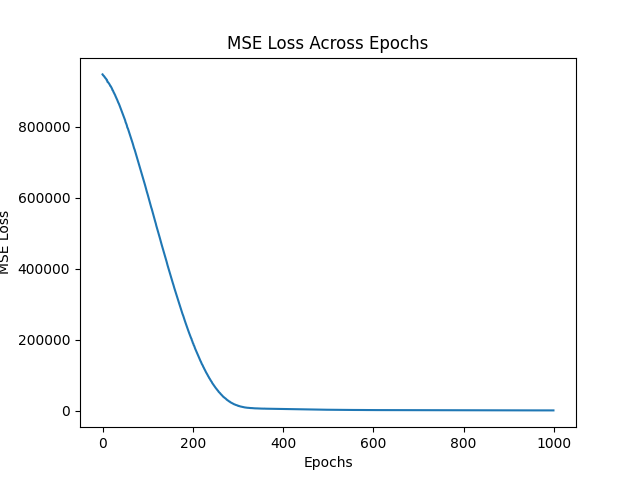
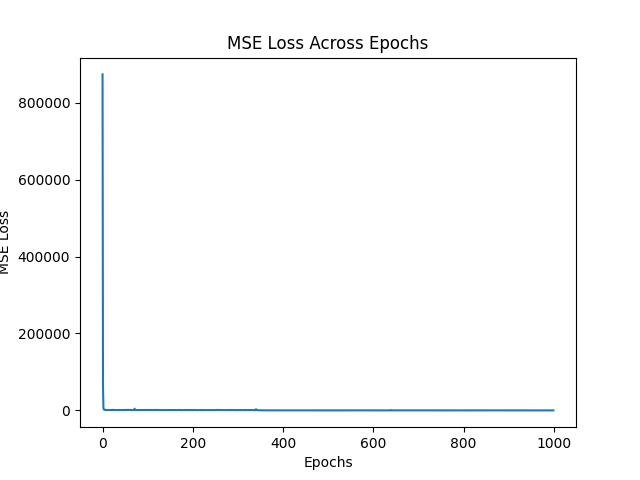
Finish :

diff --git a/train_mnist.py b/train_mnist.py
@@ -1,0 +1,152 @@
+import torch
+import torch.nn as nn
+import torch.nn.functional as F
+from torchvision import datasets, transforms
+from torch.utils.data import DataLoader, random_split
+import matplotlib.pyplot as plt
+
+from tqdm import tqdm
+
+from vit import ViT
+from cnn import CNN
+
+# Define a transformation to normalize the data
+transform = transforms.Compose([
+    transforms.ToTensor(),
+    transforms.Normalize((0.5,), (0.5,))  # MNIST images are grayscale
+])
+
+if __name__ == "__main__": 
+
+    # settings
+    batch_size = 128
+    num_epochs = 15
+
+    # Load the data
+    train_val_dataset = datasets.MNIST(root='./data', train=True, download=True, transform=transform)
+    test_dataset = datasets.MNIST(root='./data', train=False, download=True, transform=transform)
+    num_train = len(train_val_dataset)
+    num_val = int(num_train * 0.1)  # 10% for validation
+    num_train -= num_val
+
+    train_dataset, val_dataset = random_split(train_val_dataset, [num_train, num_val])
+
+    # Create data loaders for each set
+    train_loader = DataLoader(train_dataset, batch_size=batch_size, shuffle=True)
+    val_loader = DataLoader(val_dataset, batch_size=batch_size, shuffle=False)
+    test_loader = DataLoader(test_dataset, batch_size=batch_size, shuffle=False)
+
+    models = {
+        'vit': ViT(
+            img_size=28,
+            patch_size=7,
+            in_channels=1,
+            num_classes=10,
+            embed_size=64,
+            depth=6,
+            heads=8,
+            forward_expansion=4,
+            dropout=0.1
+        ),
+        'cnn': CNN(),
+    }
+
+    device = torch.device('cuda' if torch.cuda.is_available() else 'cpu')
+
+    criterion = nn.CrossEntropyLoss()
+
+    losses = {}
+    accuracies = {}
+
+    for model_type, model in models.items():
+        print(f'Training {model_type} model')
+        model.to(device)
+        optimizer = torch.optim.SGD(model.parameters(), momentum=0.9, lr=0.01)
+        model.train()
+
+        losses[model_type] = []
+        accuracies[model_type] = []
+
+        for epoch in range(num_epochs):
+            print(f'Epoch {epoch+1}/{num_epochs}')
+            print('-' * 10)
+
+            for phase in ['train', 'val']:
+                if phase == 'train':
+                    model.train()  # Set model to training mode
+                    dataloader = train_loader
+                else:
+                    model.eval()   # Set model to evaluate mode
+                    dataloader = val_loader
+
+                running_loss = 0.0
+                running_corrects = 0
+
+                # Iterate over data.
+                for inputs, labels in tqdm(dataloader):
+                    inputs = inputs.to(device)
+                    labels = labels.to(device)
+
+                    # zero the parameter gradients
+                    optimizer.zero_grad()
+
+                    # forward
+                    # track history if only in train
+                    with torch.set_grad_enabled(phase == 'train'):
+                        outputs = model(inputs)
+                        _, preds = torch.max(outputs, 1)
+                        loss = criterion(outputs, labels)
+
+                        # backward + optimize only if in training phase
+                        if phase == 'train':
+                            loss.backward()
+                            optimizer.step()
+
+                    # statistics
+                    running_loss += loss.item() * inputs.size(0)
+                    running_corrects += torch.sum(preds == labels.data)
+
+                epoch_loss = running_loss / len(dataloader.dataset)
+                epoch_acc = running_corrects.double() / len(dataloader.dataset)
+
+                print('{} Loss: {:.4f} Acc: {:.4f}'.format(phase, epoch_loss, epoch_acc))
+
+                losses[model_type].append(epoch_loss)
+                accuracies[model_type].append(epoch_acc.cpu())
+
+        print('Finished Training')
+
+        # Test the model
+        model.eval() 
+        with torch.no_grad():
+            correct = 0
+            total = 0
+            for images, labels in tqdm(test_loader):
+                images = images.to(device)
+                labels = labels.to(device)
+                outputs = model(images)
+                _, predicted = torch.max(outputs.data, 1)
+                total += labels.size(0)
+                correct += (predicted == labels).sum().item()
+
+            print('Test Accuracy of the model on the 10000 test images: {} %'.format(100 * correct / total))
+
+    # Plotting the losses
+    plt.figure(figsize=(10, 5))
+    for model_type, loss in losses.items():
+        plt.plot(loss, label=model_type)
+    plt.title('Model Loss')
+    plt.ylabel('Loss')
+    plt.xlabel('Epoch')
+    plt.legend()
+    plt.savefig('loss.png')
+
+    # Plotting the accuracies
+    plt.figure(figsize=(10, 5))
+    for model_type, accuracy in accuracies.items():
+        plt.plot(accuracy, label=model_type)
+    plt.title('Model Accuracy')
+    plt.ylabel('Accuracy')
+    plt.xlabel('Epoch')
+    plt.legend()
+    plt.savefig('accuracy.png')

diff --git a/vit.py b/vit.py
@@ -1,0 +1,111 @@
+import torch
+import torch.nn as nn
+
+class SelfAttention(nn.Module):
+    def __init__(self, embed_size, heads):
+        super(SelfAttention, self).__init__()
+        self.embed_size = embed_size
+        self.heads = heads
+        self.head_dim = embed_size // heads
+
+        assert self.head_dim * heads == embed_size, "Embed size needs to be divisible by heads"
+
+        # Adjust linear transformations to work on the entire embedding size
+        self.values = nn.Linear(embed_size, embed_size, bias=False)
+        self.keys = nn.Linear(embed_size, embed_size, bias=False)
+        self.queries = nn.Linear(embed_size, embed_size, bias=False)
+        self.fc_out = nn.Linear(heads * self.head_dim, embed_size)
+
+    def forward(self, value, key, query):
+        N = query.shape[0]
+        value_len, key_len, query_len = value.shape[1], key.shape[1], query.shape[1]
+
+        # Transform and then split the embedding into self.heads pieces
+        values = self.values(value).view(N, value_len, self.heads, self.head_dim)
+        keys = self.keys(key).view(N, key_len, self.heads, self.head_dim)
+        queries = self.queries(query).view(N, query_len, self.heads, self.head_dim)
+
+        # Attention mechanism
+        energy = torch.einsum("nqhd,nkhd->nhqk", [queries, keys])
+        attention = torch.softmax(energy / (self.embed_size ** (1 / 2)), dim=3)
+        out = torch.einsum("nhql,nlhd->nqhd", [attention, values]).reshape(N, query_len, self.heads * self.head_dim)
+
+        return self.fc_out(out)
+
+
+
+class PatchEmbedding(nn.Module):
+    def __init__(self, img_size, patch_size, in_channels, embed_size):
+        super().__init__()
+        self.img_size = img_size
+        self.patch_size = patch_size
+        self.in_channels = in_channels
+        self.embed_size = embed_size
+
+        self.n_patches = (img_size // patch_size) ** 2
+        self.proj = nn.Conv2d(in_channels, embed_size, kernel_size=patch_size, stride=patch_size)
+
+    def forward(self, x):
+        x = self.proj(x)  # [B, C, H, W] => [B, E, H/P, W/P]
+        x = x.flatten(2)  # [B, E, N_patches]
+        x = x.transpose(1, 2)  # [B, N_patches, E]
+        return x
+    
+class PositionalEncoding(nn.Module):
+    def __init__(self, n_positions, embed_size):
+        super().__init__()
+        self.positional_encoding = nn.Parameter(torch.zeros(1, n_positions, embed_size))
+
+    def forward(self, x):
+        return x + self.positional_encoding
+    
+class TransformerBlock(nn.Module):
+    def __init__(self, embed_size, heads, forward_expansion, dropout):
+        super().__init__()
+        self.attention = SelfAttention(embed_size, heads)
+        self.norm1 = nn.LayerNorm(embed_size)
+        self.norm2 = nn.LayerNorm(embed_size)
+
+        self.ffn = nn.Sequential(
+            nn.Linear(embed_size, forward_expansion * embed_size),
+            nn.ReLU(),
+            nn.Linear(forward_expansion * embed_size, embed_size)
+        )
+        self.dropout = nn.Dropout(dropout)
+
+    def forward(self, value, key, query):
+        attention = self.attention(value, key, query)
+        x = self.dropout(self.norm1(attention + query))
+        forward = self.ffn(x)
+        out = self.dropout(self.norm2(forward + x))
+        return out
+
+class ViT(nn.Module):
+    def __init__(self, img_size, patch_size, in_channels, num_classes, embed_size, depth, heads, forward_expansion, dropout):
+        super().__init__()
+        self.patch_embedding = PatchEmbedding(img_size, patch_size, in_channels, embed_size)
+        self.positional_encoding = PositionalEncoding(self.patch_embedding.n_patches + 1, embed_size)
+        self.layers = nn.ModuleList([
+            TransformerBlock(embed_size, heads, forward_expansion, dropout) for _ in range(depth)
+        ])
+        self.cls_token = nn.Parameter(torch.zeros(1, 1, embed_size))
+        self.mlp_head = nn.Sequential(
+            nn.LayerNorm(embed_size),
+            nn.Linear(embed_size, num_classes)
+        )
+
+    def forward(self, x):
+        x = self.patch_embedding(x)
+        b, n, _ = x.shape
+        cls_tokens = self.cls_token.expand(b, -1, -1).to(x.device)  # [CLS] token
+        x = torch.cat((cls_tokens, x), dim=1)
+        x = self.positional_encoding(x)
+
+        for layer in self.layers:
+            x = layer(x, x, x)
+
+        cls_token_final = x[:, 0]
+        out = self.mlp_head(cls_token_final)
+
+        return out
+

diff --git a/set_learning.py b/set_learning.py
@@ -19,16 +19,19 @@ def generate_data():
 class SetNN(nn.Module):
     def __init__(self):
         super(SetNN, self).__init__()
-        self.embedding = nn.Embedding(num_embeddings=1000, embedding_dim=10) 
-        self.global_max_pool = nn.AdaptiveMaxPool1d(1)  # global max pooling - permutation invariance
-        self.fc = nn.Linear(10, 1)  
+        self.embedding = nn.Embedding(num_embeddings=1000, embedding_dim=20)  
+        self.self_attention1 = nn.MultiheadAttention(embed_dim=20, num_heads=4, batch_first=True)  
+        self.self_attention2 = nn.MultiheadAttention(embed_dim=20, num_heads=4, batch_first=True) 
+        self.fc1 = nn.Linear(20, 10) 
+        self.fc2 = nn.Linear(10, 1) 
 
     def forward(self, x):
-        x = self.embedding(x)  
-        x = x.transpose(1, 2)  
-        x = self.global_max_pool(x) 
-        x = x.view(x.size(0), -1)  
-        x = self.fc(x) 
+        x = self.embedding(x)
+        attn_output, _ = self.self_attention1(x, x, x)
+        attn_output, _ = self.self_attention2(attn_output, attn_output, attn_output)
+        x = attn_output.mean(dim=1)
+        x = F.relu(self.fc1(x))  
+        x = self.fc2(x)
         return x
 
 class SetDataset(Dataset):
@@ -49,12 +52,19 @@ class SetDataset(Dataset):
 # Define the training loop
 def train(model, dataloader, epochs=10):
     model.train()
-    optimizer = optim.Adam(model.parameters())
+    optimizer = optim.AdamW(model.parameters(), lr=0.005)
     mse_loss = []
+
+    # Move model to cuda if available
+    device = torch.device("cuda" if torch.cuda.is_available() else "cpu")
+    model.to(device)
 
     for epoch in tqdm(range(epochs), desc="Epochs"):
         total_loss = 0
         for x, y in tqdm(dataloader, desc=f"Training Epoch {epoch+1}"):
+            # Move data to cuda if available
+            x, y = x.to(device), y.to(device)
+
             optimizer.zero_grad()
             outputs = model(x).squeeze() 
             loss = F.mse_loss(outputs, y)

diff --git a/cnn.py b/cnn.py
@@ -1,0 +1,31 @@
+import torch 
+import torch.nn as nn
+
+class CNN(nn.Module):
+    def __init__(self):
+        super(CNN, self).__init__()
+        self.conv1 = nn.Sequential(         
+            nn.Conv2d(
+                in_channels=1,              
+                out_channels=16,            
+                kernel_size=5,              
+                stride=1,                   
+                padding=2,                  
+            ),                              
+            nn.ReLU(),                      
+            nn.MaxPool2d(kernel_size=2),    
+        )
+        self.conv2 = nn.Sequential(         
+            nn.Conv2d(16, 32, 5, 1, 2),     
+            nn.ReLU(),                      
+            nn.MaxPool2d(2),                
+        )
+        # fully connected layer, output 10 classes
+        self.out = nn.Linear(32 * 7 * 7, 10)
+    def forward(self, x):
+        x = self.conv1(x)
+        x = self.conv2(x)
+        # flatten the output of conv2 to (batch_size, 32 * 7 * 7)
+        x = x.view(x.size(0), -1)       
+        output = self.out(x)
+        return output
